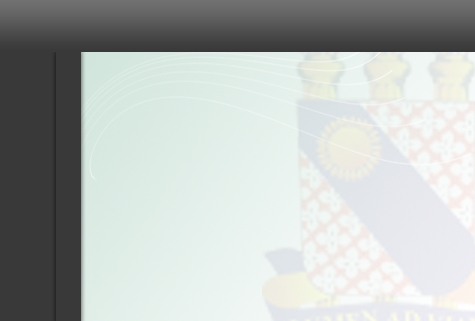
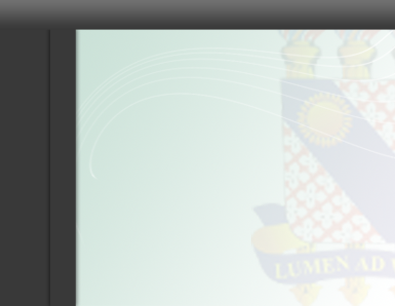
Exibição do painel completo. Compactação do painel.

Changed region(s): [[0.1519, 0.0882, 1.0, 1.0], [0.7291, 0.2059, 0.7595, 0.2647], [0.1215, 0.0882, 0.1519, 0.1176]]

diff --git a/data/css/panel.css b/data/css/panel.css
@@ -1,12 +1,12 @@
 body{
     margin:-9px 0 0 0;
     padding:0;
+    background: url("../images/panel.png") no-repeat top left;
 }
 
 .box{
-    background: url("../images/panel.png") no-repeat bottom right;
-    width: 475px;
-    min-height: 320px;
+    width: 380px;
+    height: 293px;
     color: #4b4b4b;
 }
 
@@ -20,13 +20,12 @@ body{
 	background-image: url("../images/close.png");
 	border: none;
 	float:right;
-	margin-top: 10px;
-	margin-right: 10px;
+	margin-top: 5px;
+	margin-right: 5px;
 }
 
 #close:hover{
 	background-image: url("../images/closehover.png");
-
 }
 
 .box .menuheader{
@@ -35,8 +34,9 @@ body{
 	color: white;
     text-align: center;
     margin-left: 0px;
-    padding-top: 10px;
+    padding-top: 5px;
     text-shadow: 1px 1px 2px black;
+    height: 10px;
 }
 
 .box select{
@@ -51,7 +51,7 @@ body{
 ul{
 	list-style-type: none;
 	margin: 0;
-	padding:5px 0 0 28px;
+	padding:0 0 0 28px;
 	margin-left: -22px;
 }
 
@@ -65,9 +65,9 @@ ul{
 	opacity: 0;
     cursor: pointer;
     height: 38px;
-    margin-left: 75px;
+    margin-left: 68px;
     margin-top: 8px;
-    width: 394px;
+    width: 312px;
 }
 
 .menu .info-block:hover{

diff --git a/lib/config.js b/lib/config.js
@@ -29,8 +29,8 @@ var config = {
     },
     
     "panel": {
-        "width": 490,
-        "height": 150,
+        "width": 394,
+        "height": 293,
         "filename": "panel.html",
         "script": "panel.js"
     },
